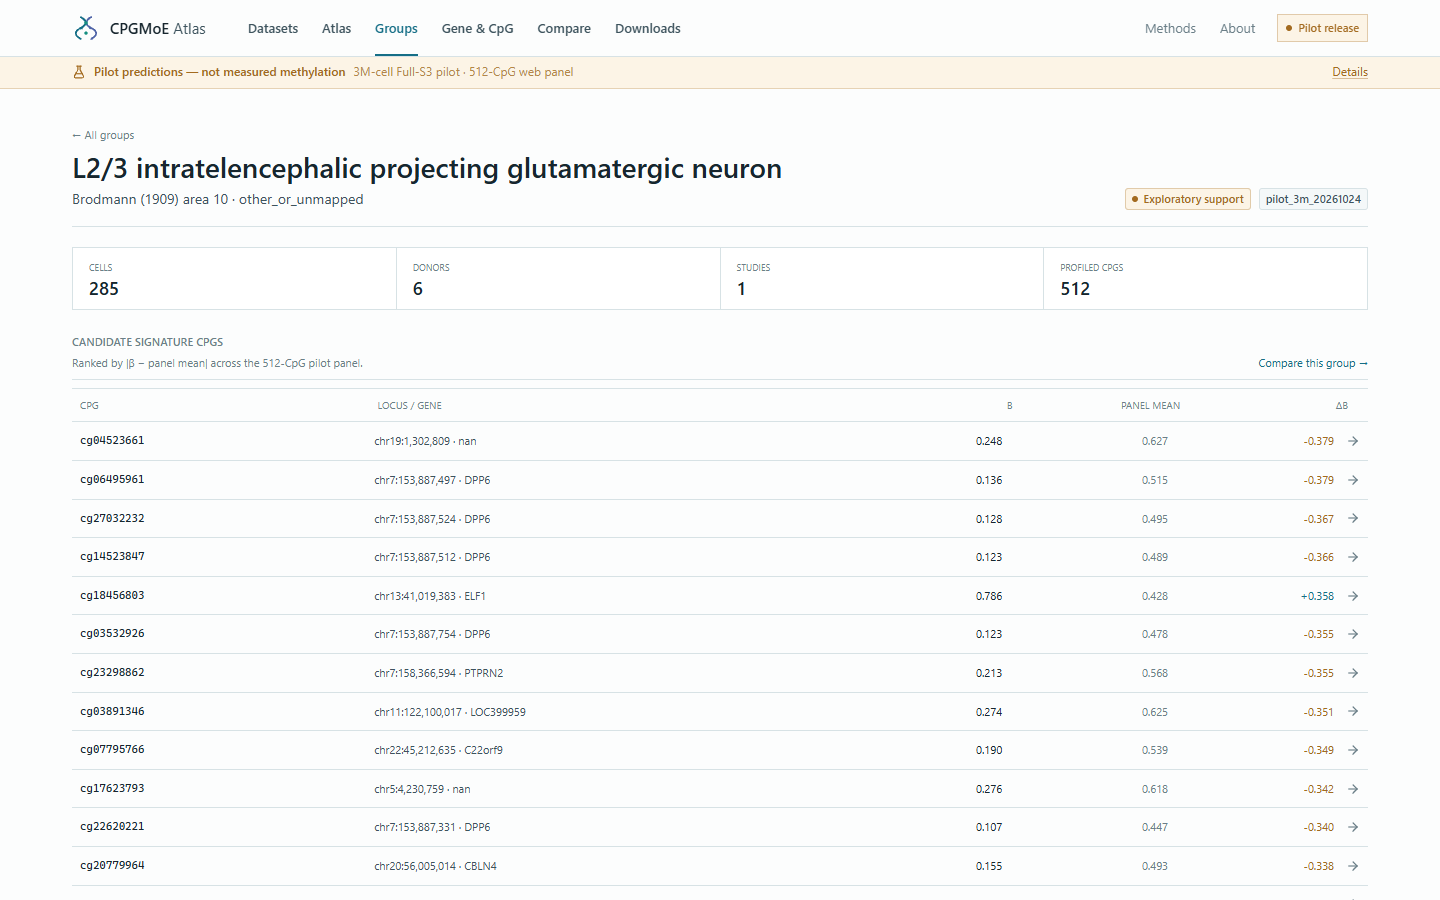
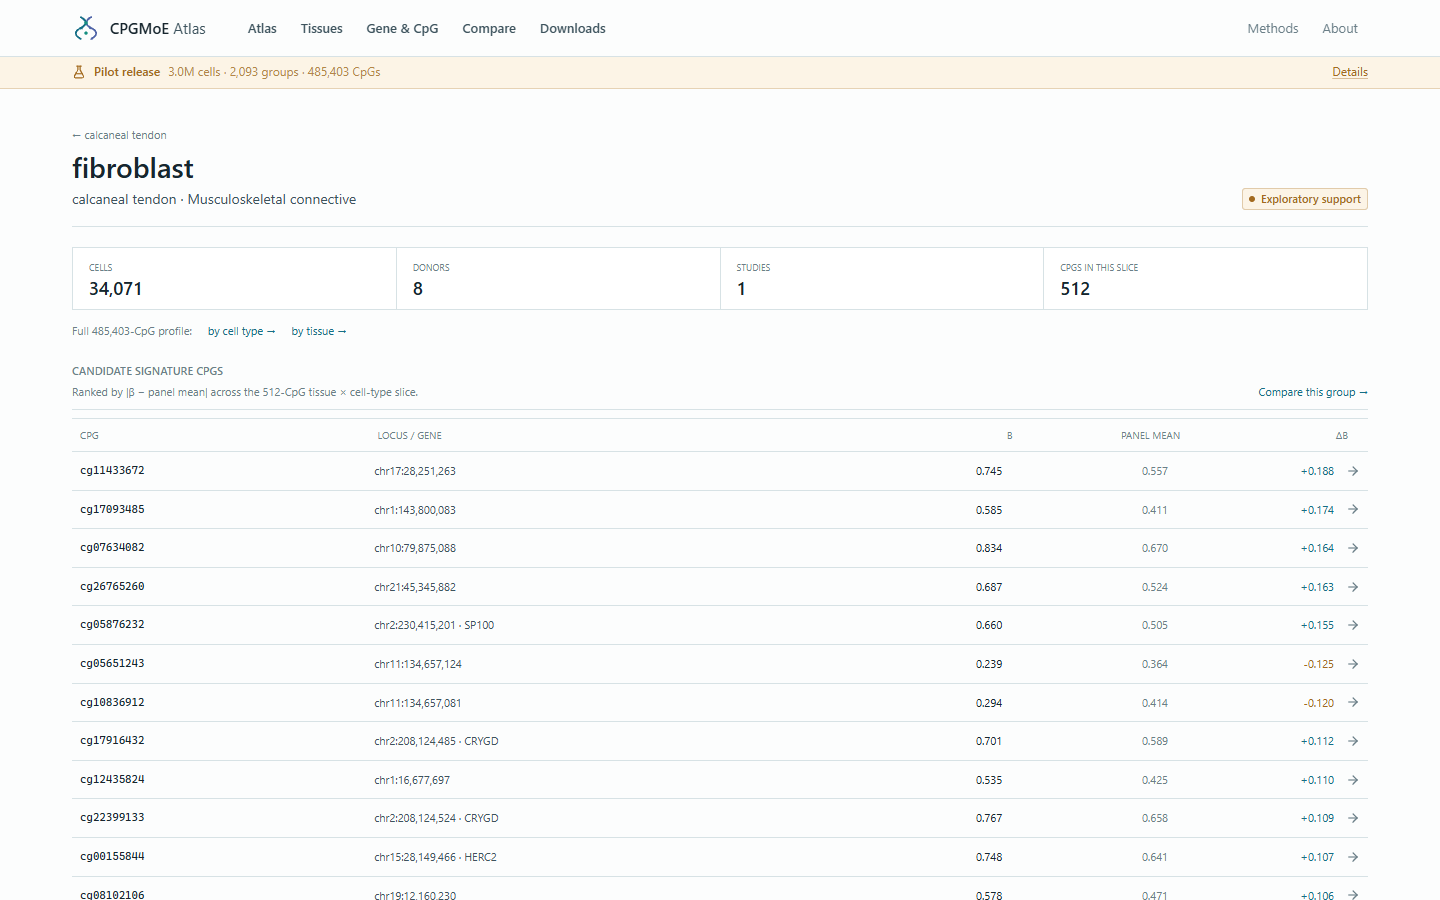
Clarify the 512-CpG slice on group pages and link full-panel profiles

diff --git a/src/app/groups/[id]/page.tsx b/src/app/groups/[id]/page.tsx
@@ -5,6 +5,7 @@ import { ArrowRight } from "lucide-react";
 import { Badge } from "@/components/ui/badge";
 import { humanize } from "@/lib/format";
 import { getGroup, pilotRelease, topCpgsForGroup } from "@/lib/pilot";
+import { cellTypeSignatures } from "@/lib/signatures";
 
 export const metadata: Metadata = {
   title: "Group detail",
@@ -21,6 +22,9 @@ export default async function GroupPage({
   const group = getGroup(groupId);
   if (!group) notFound();
   const topCpgs = topCpgsForGroup(groupId, 30);
+  const cellTypeProfile = cellTypeSignatures().find(
+    (entry) => entry.label === group.cell_type,
+  );
 
   return (
     <div className="shell py-8">
@@ -63,7 +67,7 @@ export default async function GroupPage({
           ["Cells", group.n_cells.toLocaleString("en-US")],
           ["Donors", `${group.n_donors}`],
           ["Studies", `${group.n_datasets}`],
-          ["Profiled CpGs", `${pilotRelease.n_profiled_cpgs}`],
+          ["CpGs in this slice", `${pilotRelease.n_profiled_cpgs}`],
         ].map(([label, value]) => (
           <div key={label} className="bg-white px-4 py-3">
             <p className="text-[9px] uppercase text-ink-faint">{label}</p>
@@ -74,11 +78,29 @@ export default async function GroupPage({
         ))}
       </div>
 
+      <div className="mt-3 flex flex-wrap items-center gap-x-4 gap-y-1 text-[11px] text-ink-soft">
+        <span className="text-ink-faint">Full 485,403-CpG profile:</span>
+        {cellTypeProfile ? (
+          <Link
+            href={`/cell-types/${cellTypeProfile.group_index}`}
+            className="text-primary hover:underline"
+          >
+            by cell type →
+          </Link>
+        ) : null}
+        <Link
+          href={`/tissues/${encodeURIComponent(group.tissue)}`}
+          className="text-primary hover:underline"
+        >
+          by tissue →
+        </Link>
+      </div>
+
       <div className="mt-6 flex items-end justify-between border-b border-line pb-2">
         <div>
           <p className="micro-label">Candidate signature CpGs</p>
           <p className="mt-1 text-[11px] text-ink-faint">
-            Ranked by |β − panel mean| across the 512-CpG pilot panel.
+            Ranked by |β − panel mean| across the 512-CpG tissue × cell-type slice.
           </p>
         </div>
         <Link
